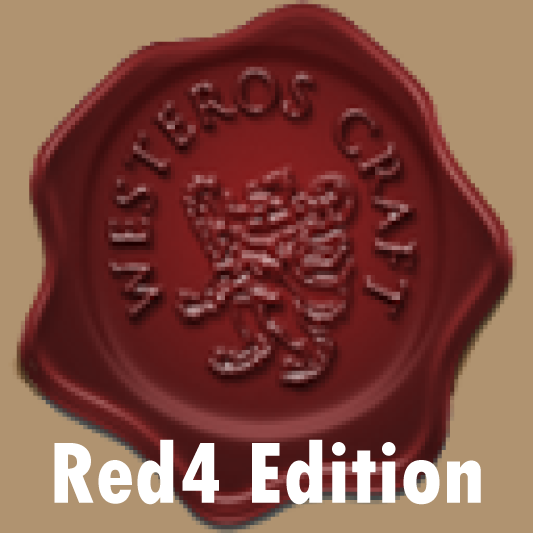
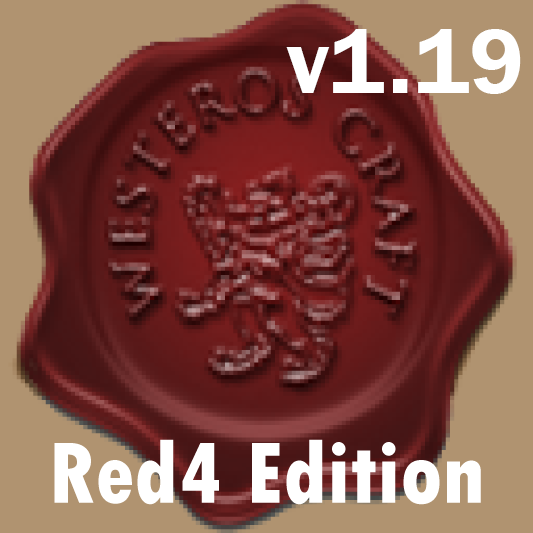
updated metadata for mc java v1.19

Changed region(s): [[0.5403, 0.03, 0.9906, 0.1801]]

diff --git a/README.md b/README.md
@@ -1,1 +1,2 @@
-Red4Craft-WC-RPack
+Red4Craft Resource Pack
+Java v1.19
